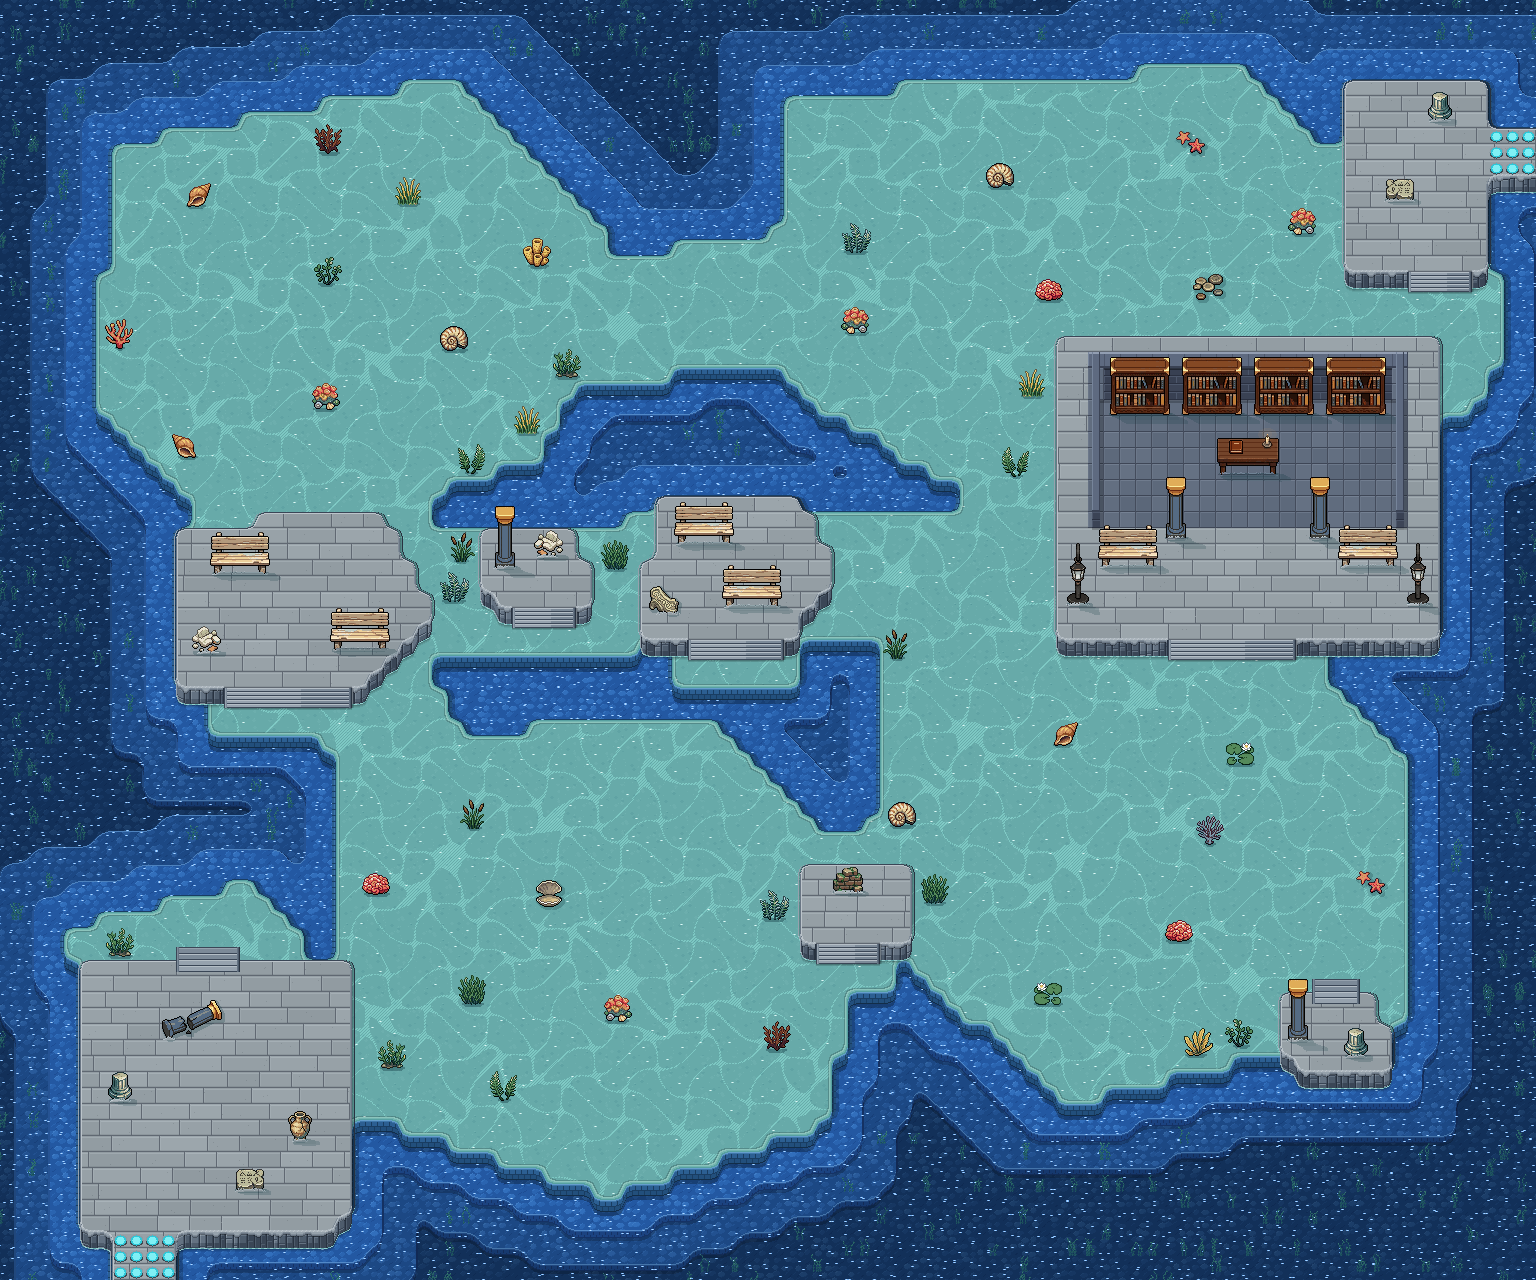
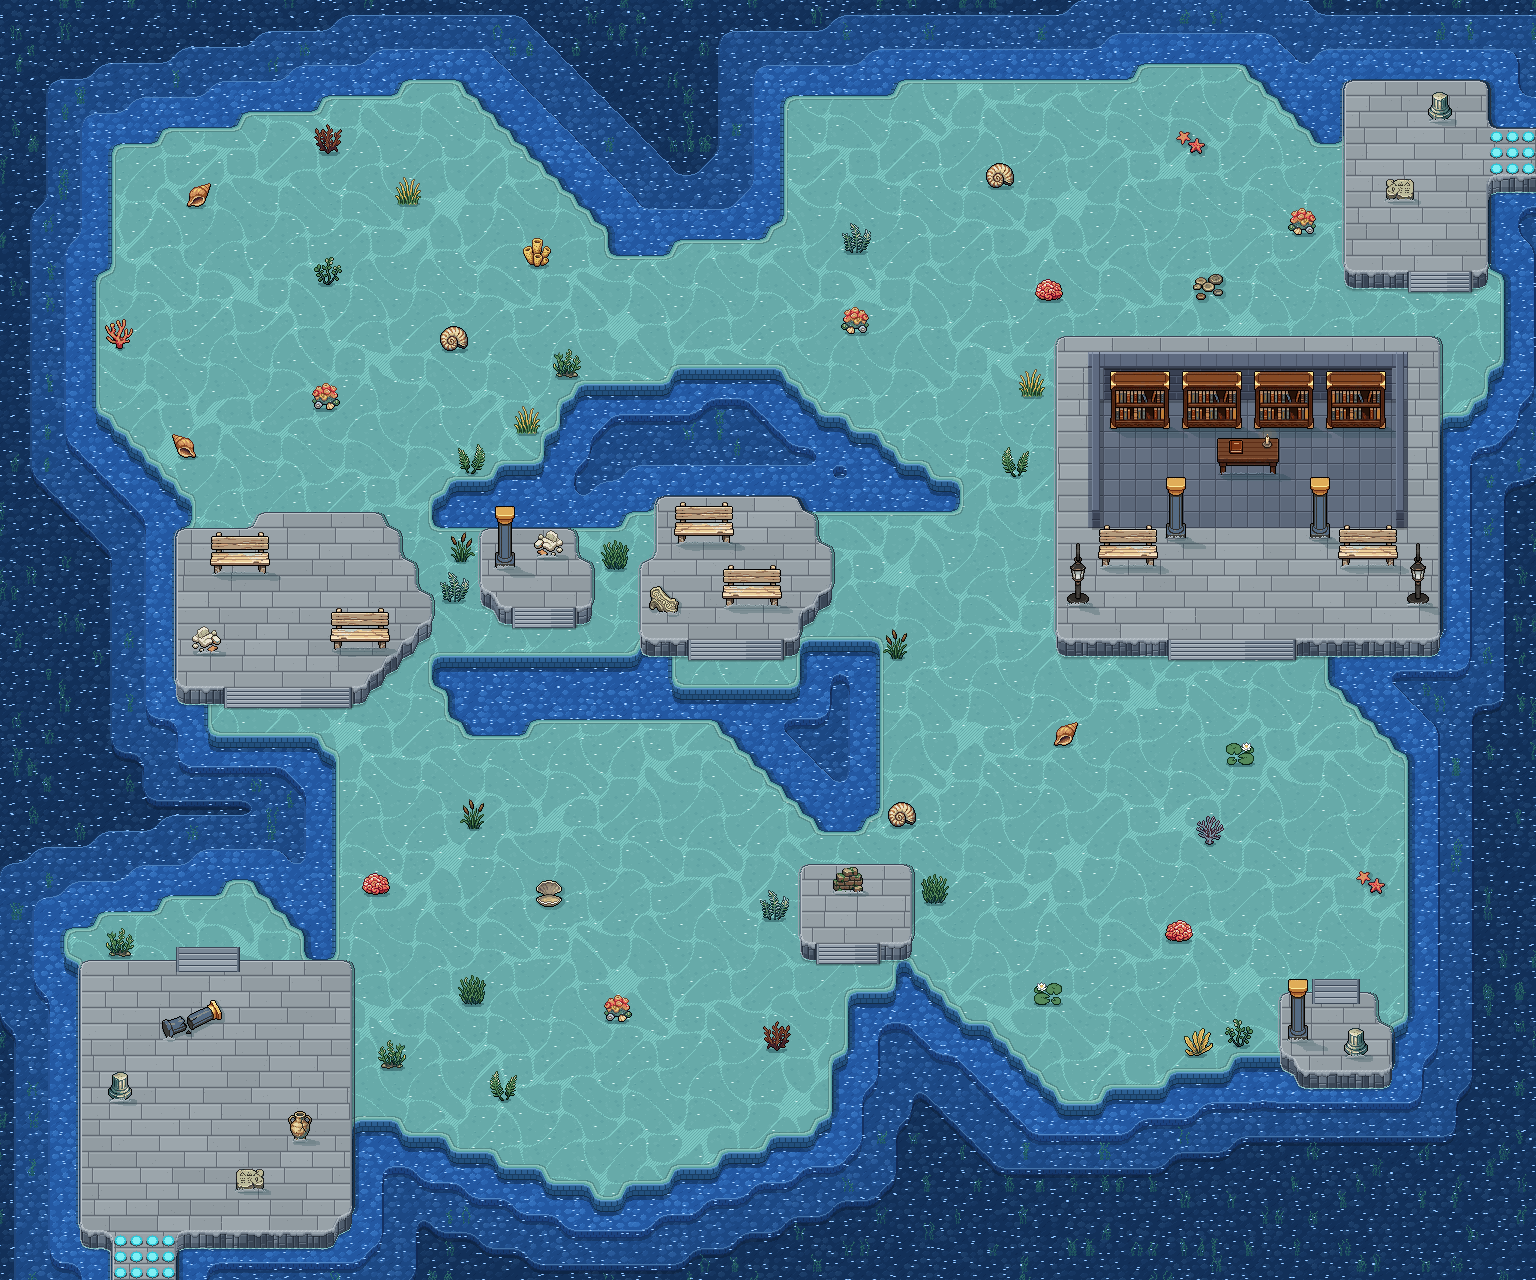
Karte 48: Regale unter der Mauerabdeckung, Animationen (4 und 16 Bilder)
Claude-Session: https://claude.ai/code/session_01SaoYHKhnro4LFcPJqjaPsq

Changed region(s): [[0.7188, 0.2812, 0.9062, 0.3438]]

diff --git a/tools/karte48_objekte.py b/tools/karte48_objekte.py
@@ -101,7 +101,7 @@ def main():
     # ---------------- Bibliothek: Regale im festen Rhythmus an der Rueckwand, Lesetisch auf der Achse
     rx0, ry0, rx1, ry1 = lay['raum']
     achse = (rx0 * T + (rx1 + 1) * T) / 2.0
-    fuss_regal = (ry0 + 3) * T + 14                                  # stehen auf dem Boden vor der Wandflaeche
+    fuss_regal = (ry0 + 4) * T + 12                                  # vor der Wandflaeche, Oberkante unter der Mauerabdeckung
     for dx in (-108, -36, 36, 108):
         setze('regal', achse + dx, fuss_regal, {'an_wand': True, 'fest_pos': True}, pruefen=False)
         rects[-1] = (rects[-1][0], rects[-1][1], rects[-1][2], rects[-1][3])
